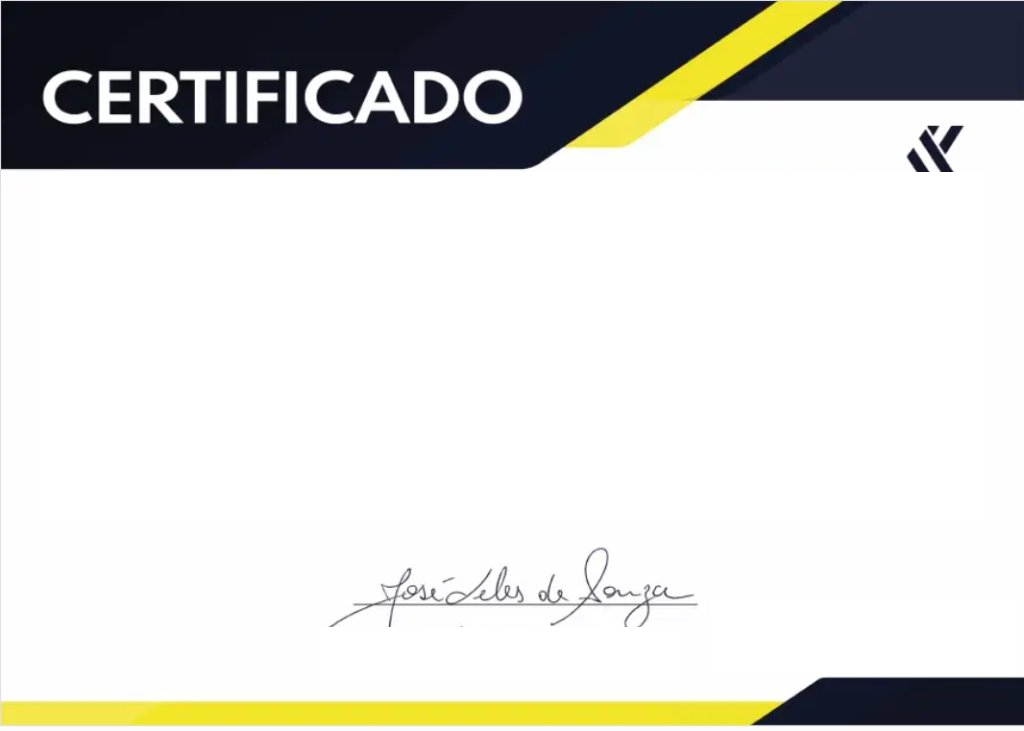
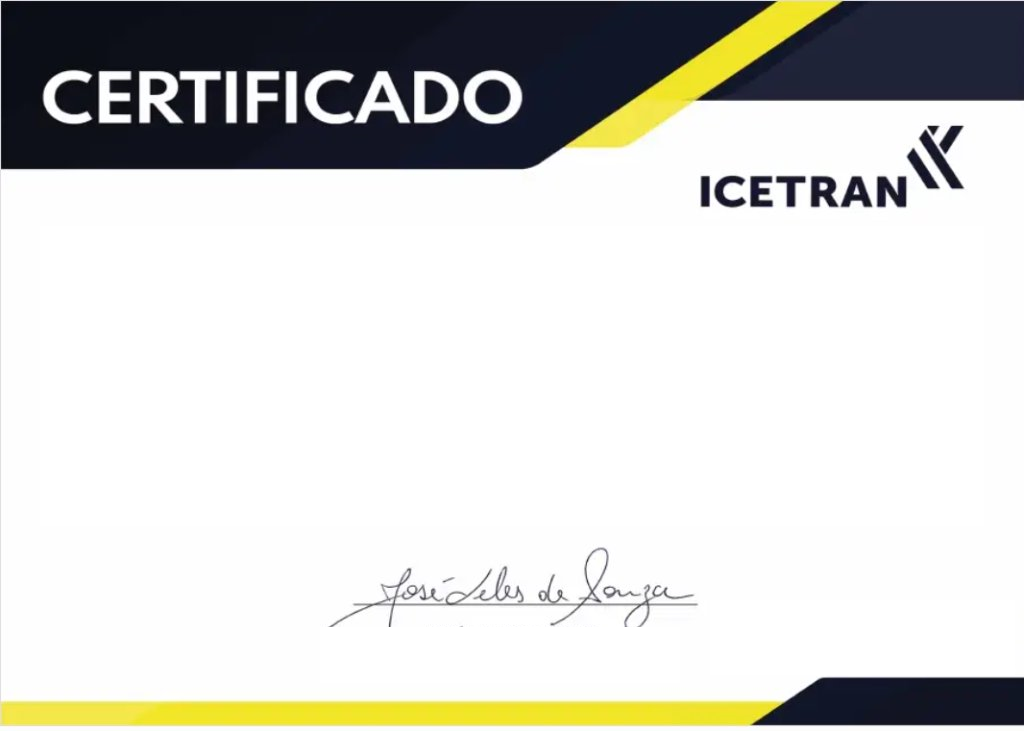
fix: restaurar logotipo oficial ICETRAN no canto superior direito e ajustar alinhamento do texto

Changed region(s): [[0.6562, 0.2107, 0.9375, 0.301]]

diff --git a/criar-certificado-condutor.html b/criar-certificado-condutor.html
@@ -552,7 +552,7 @@
         /* ─── FRENTE DO CERTIFICADO ─── */
         .cert-frente-body-overlay {
             position: absolute;
-            top: 172px;
+            top: 236px;
             left: 0;
             width: 1024px;
             display: flex;
@@ -568,8 +568,8 @@
             font-weight: 800;
             letter-spacing: 0.5px;
             color: #000000;
-            margin-top: 10px;
-            margin-bottom: 30px;
+            margin-top: 0;
+            margin-bottom: 24px;
             font-family: Arial, Helvetica, sans-serif;
         }
         .cert-main-paragraph {
@@ -589,7 +589,7 @@
         .cert-local-data {
             font-size: 15.5px;
             color: #111827;
-            margin-top: 36px;
+            margin-top: 28px;
             font-weight: 500;
             font-family: Arial, Helvetica, sans-serif;
         }
@@ -1170,7 +1170,7 @@
                     <!-- ─── FOLHA 1: FRENTE DO CERTIFICADO ICETRAN (100% AUTÊNTICO) ─── -->
                     <div class="cert-sheet-landscape" id="sheetFrente">
                         <!-- Imagem do Template Oficial com Faixa Navy/Amarela, Assinatura e Logo DETRANMG -->
-                        <img src="assets/icetran_frente_template.png?v=5" alt="Template Frente ICETRAN" style="position: absolute; top: 0; left: 0; width: 1024px; height: 730px; z-index: 1; pointer-events: none;">
+                        <img src="assets/icetran_frente_template.png?v=6" alt="Template Frente ICETRAN" style="position: absolute; top: 0; left: 0; width: 1024px; height: 730px; z-index: 1; pointer-events: none;">
                         
                         <!-- Corpo com dados dinâmicos sobre o template oficial -->
                         <div class="cert-frente-body-overlay">
